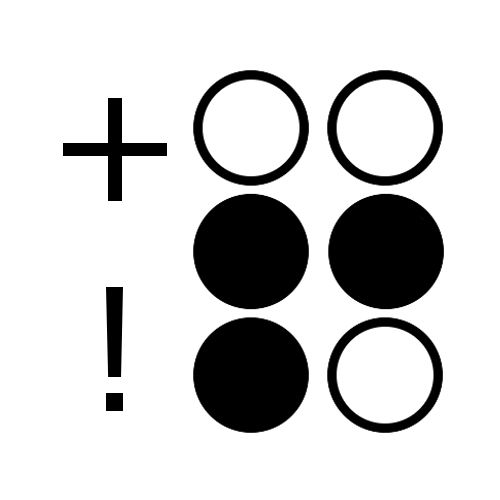
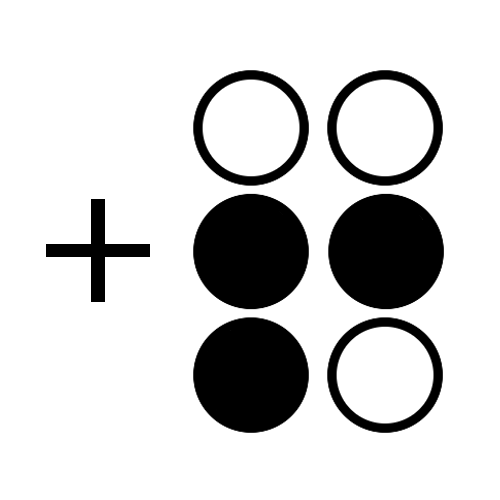
Resolvido alguns problrmas dos sinais braille
Resolvido problrmas dos sinais braille, só falta maiuscula, e um simbolo não identificdo, alterado também o modo de texto e palavra

Changed region(s): [[0.09, 0.18, 0.33, 0.84]]

diff --git a/src/pages/palavrasBraille.ts b/src/pages/palavrasBraille.ts
@@ -1,68 +1,74 @@
 export class palavraBraille { 
   static exemplosImagem = [ 
-      {palavra:'abelha', imagem:'../assets/img/palavras-braille/abelha.png'},
-      {palavra:'bau', imagem:'../assets/img/palavras-braille/bau.png'},
-      {palavra:'cachorro', imagem:'../assets/img/palavras-braille/cachorro.png'},
-      {palavra:'dado', imagem:'../assets/img/palavras-braille/dado.png'},
-      {palavra:'elefante', imagem:'../assets/img/palavras-braille/elefante.png'},
-      {palavra:'folha', imagem:'../assets/img/palavras-braille/folha.png'},
-      {palavra:'gato', imagem:'../assets/img/palavras-braille/gato.png'},
-      {palavra:'helicóptero', imagem:'../assets/img/palavras-braille/helicoptero.png'},
-      {palavra:'ilha', imagem:'../assets/img/palavras-braille/ilha.png'},
-      {palavra:'joaninha', imagem:'../assets/img/palavras-braille/joaninha.png'},
-      {palavra:'kiwi', imagem:'../assets/img/palavras-braille/kiwi.png'},
-      {palavra:'livro', imagem:'../assets/img/palavras-braille/livro.png'},
-      {palavra:'morango', imagem:'../assets/img/palavras-braille/morango.png'},
-      {palavra:'ninho', imagem:'../assets/img/palavras-braille/ninho.png'},
-      {palavra:'olho', imagem:'../assets/img/palavras-braille/olho.png'},
-      {palavra:'pato', imagem:'../assets/img/palavras-braille/pato.png'},
-      {palavra:'queijo', imagem:'../assets/img/palavras-braille/queijo.png'},
-      {palavra:'rato', imagem:'../assets/img/palavras-braille/rato.png'},
-      {palavra:'sapo', imagem:'../assets/img/palavras-braille/sapo.png'},
-      {palavra:'tigre', imagem:'../assets/img/palavras-braille/tigre.png'},
-      {palavra:'uva', imagem:'../assets/img/palavras-braille/uva.png'},
-      {palavra:'vassoura', imagem:'../assets/img/palavras-braille/vassoura.png'},
-      {palavra:'xícara', imagem:'../assets/img/palavras-braille/xicara.png'},
-      {palavra:'youtube', imagem:'../assets/img/palavras-braille/youtube.png'},
-      {palavra:'zebra', imagem:'../assets/img/palavras-braille/zebra.png'},
-      {palavra:'maça', imagem:'../assets/img/palavras-braille/maca.png'},
-      {palavra:'jacaré', imagem:'../assets/img/palavras-braille/jacare.png'},
-      {palavra:'máscara', imagem:'../assets/img/palavras-braille/mascara.png'},
-      {palavra:'Símbolo não utilizado na Grafia Braille para a Língua Portuguesa', imagem:' '},
-      {palavra:'baú', imagem:'../assets/img/palavras-braille/bau.png'},
-      {palavra:'triângulo', imagem:'../assets/img/palavras-braille/triangulo.png'},
-      {palavra:'gênio', imagem:'../assets/img/palavras-braille/genio.png'},
-      {palavra:'Símbolo não utilizado na Grafia Braille para a Língua Portuguesa', imagem:' '},
-      {palavra:'ônibus', imagem:'../assets/img/palavras-braille/onibus.png'},
-      {palavra:'braille@gmail.com', imagem:'../assets/img/sinais-braille/arroba-braille.png'},
-      {palavra:'amanhã  vamos  à  praia.', imagem:'../assets/img/palavras-braille/letra.png'},
-      {palavra:'Símbolo não utilizado na Grafia Braille para a Língua Portuguesa', imagem:' '},
-      {palavra:'Símbolo não utilizado na Grafia Braille para a Língua Portuguesa', imagem:' '}, 
-      {palavra:'caminhões', imagem:'../assets/img/palavras-braille/caminhoes.png'},
-      {palavra:'Letra utilizada geralmente em substantivos próprios.', imagem:' '},
-      {palavra:'escola, trabalho e casa.', imagem:'../assets/img/palavras-braille/virgula.png'},
-      {palavra:'livros; caderno; canetas; lápis.', imagem:'../assets/img/palavras-braille/pontovirgula.png'},                      
-      {palavra:'brincar de: amarelinha e pega-pega.', imagem:'../assets/img/palavras-braille/dois-pontos.png'},
-      {palavra:'11 ÷ 1', imagem:'../assets/img/palavras-braille/divisao.png'},
-      {palavra:'qual seu nome?', imagem:'../assets/img/palavras-braille/interrogacao.png'},
-      {palavra:'eu amo você!', imagem:' '},//caso especial ! e +
-      {palavra:'11 = 11', imagem:' '},
-      {palavra:'**', imagem:' '},//usado pra representar o x
-      {palavra:'*', imagem:' '},
-      {palavra:'º', imagem:' '},
-      {palavra:'ímã', imagem:'../assets/img/palavras-braille/ima.png'},
-      {palavra:'avião', imagem:'../assets/img/palavras-braille/aviao.png'},
-      {palavra:'óculos', imagem:'../assets/img/palavras-braille/oculos.png'},
-      {palavra:'nº', imagem:' '},
-      {palavra:'.', imagem:' '},
-      {palavra:'-', imagem:' '},
-      {palavra:'-', imagem:' '},
-      {palavra:'-', imagem:' '},
-      {palavra:'-', imagem:' '},
-      {palavra:'pipe', imagem:' '},
-      {palavra:'maiuscula', imagem:' '},
-      {palavra:'$', imagem:' '},
-      {palavra:'-', imagem:' '},
+      {palavra:'abelha', imagem:'../assets/img/palavras-braille/abelha.png',texto:''},
+      {palavra:'bau', imagem:'../assets/img/palavras-braille/bau.png',texto:''},
+      {palavra:'cachorro', imagem:'../assets/img/palavras-braille/cachorro.png',texto:''},
+      {palavra:'dado', imagem:'../assets/img/palavras-braille/dado.png',texto:''},
+      {palavra:'elefante', imagem:'../assets/img/palavras-braille/elefante.png',texto:''},
+      {palavra:'folha', imagem:'../assets/img/palavras-braille/folha.png',texto:''},
+      {palavra:'gato', imagem:'../assets/img/palavras-braille/gato.png',texto:''},
+      //////////
+      {palavra:'helicóptero', imagem:'../assets/img/palavras-braille/helicoptero.png',texto:''},
+      {palavra:'ilha', imagem:'../assets/img/palavras-braille/ilha.png',texto:''},
+      {palavra:'joaninha', imagem:'../assets/img/palavras-braille/joaninha.png',texto:''},
+      {palavra:'kiwi', imagem:'../assets/img/palavras-braille/kiwi.png',texto:''},
+      {palavra:'livro', imagem:'../assets/img/palavras-braille/livro.png',texto:''},
+      {palavra:'morango', imagem:'../assets/img/palavras-braille/morango.png',texto:''},
+      {palavra:'ninho', imagem:'../assets/img/palavras-braille/ninho.png',texto:''},
+      ///////////////
+      {palavra:'olho', imagem:'../assets/img/palavras-braille/olho.png',texto:''},
+      {palavra:'pato', imagem:'../assets/img/palavras-braille/pato.png',texto:''},
+      {palavra:'queijo', imagem:'../assets/img/palavras-braille/queijo.png',texto:''},
+      {palavra:'rato', imagem:'../assets/img/palavras-braille/rato.png',texto:''},
+      {palavra:'sapo', imagem:'../assets/img/palavras-braille/sapo.png',texto:''},
+      {palavra:'tigre', imagem:'../assets/img/palavras-braille/tigre.png',texto:''},
+      {palavra:'uva', imagem:'../assets/img/palavras-braille/uva.png',texto:''},
+      ////////////////////
+      {palavra:'vassoura', imagem:'../assets/img/palavras-braille/vassoura.png',texto:''},
+      {palavra:'xícara', imagem:'../assets/img/palavras-braille/xicara.png',texto:''},
+      {palavra:'youtube', imagem:'../assets/img/palavras-braille/youtube.png',texto:''},
+      {palavra:'zebra', imagem:'../assets/img/palavras-braille/zebra.png',texto:''},
+      {palavra:'maça', imagem:'../assets/img/palavras-braille/maca.png',texto:''},
+      {palavra:'jacaré', imagem:'../assets/img/palavras-braille/jacare.png',texto:''},
+      {palavra:'máscara', imagem:'../assets/img/palavras-braille/mascara.png',texto:''},
+      /////////////////////////////////////
+      {palavra:'', imagem:' ',texto:'Símbolo não utilizado na Grafia Braille para a Língua Portuguesa'},
+      {palavra:'baú', imagem:'../assets/img/palavras-braille/bau.png',texto:''},
+      {palavra:'triângulo', imagem:'../assets/img/palavras-braille/triangulo.png',texto:''},
+      {palavra:'gênio', imagem:'../assets/img/palavras-braille/genio.png',texto:''},
+      {palavra:'', imagem:' ',texto:'Símbolo não utilizado na Grafia Braille para a Língua Portuguesa'},
+      {palavra:'ônibus', imagem:'../assets/img/palavras-braille/onibus.png',texto:''},
+      {palavra:'furb@furb.com', imagem:'../assets/img/sinais-braille/arroba-braille.png',texto:''},
+      {palavra:'amanhã  vamos  à  praia.', imagem:'../assets/img/palavras-braille/letra.png',texto:''},
+      {palavra:'', imagem:' ',texto:'Símbolo não utilizado na Grafia Braille para a Língua Portuguesa'},
+      {palavra:'', imagem:' ',texto:'Símbolo não utilizado na Grafia Braille para a Língua Portuguesa'}, 
+      {palavra:'caminhões', imagem:'../assets/img/palavras-braille/caminhoes.png',texto:''},
+      {palavra:'', imagem:' ',texto:'Letra utilizada geralmente em substantivos próprios.'},
+      {palavra:'escola, trabalho e casa.', imagem:'../assets/img/palavras-braille/virgula.png',texto:''},
+      {palavra:'livros; caderno; canetas; lápis.', imagem:'../assets/img/palavras-braille/pontovirgula.png',texto:''},                      
+      {palavra:'brincar de: amarelinha e pega-pega.', imagem:'../assets/img/palavras-braille/dois-pontos.png',texto:''},
+      {palavra:'2 ÷ 1', imagem:'../assets/img/palavras-braille/divisao.png',texto:''},
+      {palavra:'qual seu nome?', imagem:'../assets/img/palavras-braille/interrogacao.png',texto:''},
+      {palavra:'eu amo você!', imagem:'../assets/img/palavras-braille/exclamacao.png',texto:''},
+      {palavra:'34 + 56', imagem:'../assets/img/palavras-braille/adicao.png',texto:''},
+      {palavra:'78 = 78', imagem:'../assets/img/palavras-braille/igual.png',texto:''},
+      {palavra:'9 × 10', imagem:'../assets/img/palavras-braille/multiplicacao.png',texto:''},//usado pra representar o x 158
+      {palavra:'"melhor do mundo"', imagem:'../assets/img/palavras-braille/aspas.png',texto:''},
+      {palavra:'*exemplo', imagem:'../assets/img/palavras-braille/asterisco.png',texto:''},
+      {palavra:'hoje a máxima foi de 35º c.', imagem:'../assets/img/palavras-braille/grau.png',texto:''},
+      {palavra:'ímã', imagem:'../assets/img/palavras-braille/ima.png',texto:''},
+      {palavra:'avião', imagem:'../assets/img/palavras-braille/aviao.png',texto:''},
+      {palavra:'óculos', imagem:'../assets/img/palavras-braille/oculos.png',texto:''},
+      {palavra:'1 2 3 4 5 6 7 8 9 10', imagem:'../assets/img/palavras-braille/sinal-numerico.png',texto:''},
+      {palavra:'hoje terminei de ler um livro.', imagem:'../assets/img/palavras-braille/ponto-final.png',texto:''},
+      {palavra:'minha verdura preferida é couve-flor.', imagem:'../assets/img/palavras-braille/hifen.png',texto:''},
+      {palavra:' ', imagem:' ',texto:'Este sinal só possui valor representativo na Grafia Braille para a Língua Portuguesa combinado com outro sinal. Ex: pi'},
+      {palavra:' ', imagem:' ',texto:'Este sinal só possui valor representativo na Grafia Braille para a Língua Portuguesa combinado com outro sinal. Ex: Alfa'},
+      {palavra:' ', imagem:' ',texto:'Este sinal não possui representação em tinta e é utilizado em questões específicas da Grafia Braille para a Língua Portuguesa.'},
+      {palavra:'google.com', imagem:' ',texto:'Este sinal não possui representação em tinta e é utilizado em questões específicas da Grafia Braille para a Língua Portuguesa. Deve ser escrito imediatamente antes e após endereços de sites e e-mails, sem espaços.'},
+      {palavra:'Braille', imagem:' ',texto:''},
+      {palavra:'r$ 10,00', imagem:'../assets/img/palavras-braille/cifrao.png',texto:''},
+      {palavra:' ', imagem:' ',texto:'Este sinal só possui valor representativo na Grafia Braille para a Língua Portuguesa combinado com outro sinal.'},
     ];
   static letrasSmall = [ 
       {letra:'a', img:'../assets/img/sinais-braille-small/a.png', imgMarcado:'../assets/img/sinais-braille-small/a-d.png'},
@@ -110,26 +116,37 @@ export class palavraBraille {
       {letra:':', img:'../assets/img/sinais-braille-small/doispontos.png', imgMarcado:'../assets/img/sinais-braille-small/doispontos-d.png'},
       {letra:'÷', img:'../assets/img/sinais-braille-small/divisao.png', imgMarcado:'../assets/img/sinais-braille-small/divisao-d.png'},
       {letra:'?', img:'../assets/img/sinais-braille-small/interrogacao.png', imgMarcado:'../assets/img/sinais-braille-small/interrogacao-d.png'},
-      {letra:'!', img:'../assets/img/sinais-braille-small/exclamacao.png', imgMarcado:'../assets/img/sinais-braille-small/exclamacao-d.png'},
+      {letra:'!', img:'../assets/img/sinais-braille-small/exclamacao_adicao.png', imgMarcado:'../assets/img/sinais-braille-small/exclamacao_adicao-d.png'},
+      {letra:'+', img:'../assets/img/sinais-braille-small/exclamacao_adicao.png', imgMarcado:'../assets/img/sinais-braille-small/exclamacao_adicao-d.png'},
       {letra:'=', img:'../assets/img/sinais-braille-small/igual.png', imgMarcado:'../assets/img/sinais-braille-small/igual-d.png'},
-      {letra:'*', img:'../assets/img/sinais-braille-small/multiplicacao.png', imgMarcado:'../assets/img/sinais-braille-small/multiplicacao-d.png'},
+      {letra:'×', img:'../assets/img/sinais-braille-small/multiplicacao_aspa.png', imgMarcado:'../assets/img/sinais-braille-small/multiplicacao_aspa-d.png'},
+      {letra:'"', img:'../assets/img/sinais-braille-small/multiplicacao_aspa.png', imgMarcado:'../assets/img/sinais-braille-small/multiplicacao_aspa-d.png'},
       {letra:'*', img:'../assets/img/sinais-braille-small/asterisco.png', imgMarcado:'../assets/img/sinais-braille-small/asterisco-d.png'},
       {letra:'º', img:'../assets/img/sinais-braille-small/grau.png', imgMarcado:'../assets/img/sinais-braille-small/grau-d.png'},
       {letra:'í', img:'../assets/img/sinais-braille-small/i-agudo.png', imgMarcado:'../assets/img/sinais-braille-small/i-agudo-d.png'},
       {letra:'ã', img:'../assets/img/sinais-braille-small/a-til.png', imgMarcado:'../assets/img/sinais-braille-small/a-til-d.png'},
       {letra:'ó', img:'../assets/img/sinais-braille-small/o-agudo.png', imgMarcado:'../assets/img/sinais-braille-small/o-agudo-d.png'},
-      {letra:'nº', img:'../assets/img/sinais-braille-small/shift-n.png', imgMarcado:'../assets/img/sinais-braille-small/shift-n.png'},
+/*55*/{letra:'nº', img:'../assets/img/sinais-braille-small/shift-n.png', imgMarcado:'../assets/img/sinais-braille-small/shift-n.png'},
       {letra:'.', img:'../assets/img/sinais-braille-small/ponto.png', imgMarcado:'../assets/img/sinais-braille-small/ponto-d.png'},
       {letra:'-', img:'../assets/img/sinais-braille-small/hifen.png', imgMarcado:'../assets/img/sinais-braille-small/hifen-d.png'},
-      {letra:'4', img:'../assets/img/sinais-braille-small/4.png', imgMarcado:'../assets/img/sinais-braille-small/4-d.png'},
-      {letra:'45', img:'../assets/img/sinais-braille-small/45.png', imgMarcado:'../assets/img/sinais-braille-small/45-d.png'},
+      {letra:'SE4', img:'../assets/img/sinais-braille-small/SE4.png', imgMarcado:'../assets/img/sinais-braille-small/SE4-d.png'},
+      {letra:'SE45', img:'../assets/img/sinais-braille-small/SE45.png', imgMarcado:'../assets/img/sinais-braille-small/SE45-d.png'},
       {letra:'pipe', img:'../assets/img/sinais-braille-small/pipe-braille.png', imgMarcado:'../assets/img/sinais-braille-small/pipe-braille.png'},
-      {letra:'5', img:'../assets/img/sinais-braille-small/5-d.png', imgMarcado:'../assets/img/sinais-braille-small/5-d.png'},
-      {letra:'maiusculo', img:'../assets/img/sinais-braille-small/45.png', imgMarcado:'../assets/img/sinais-braille-small/45-d.png'},
-      {letra:'$', img:'../assets/img/sinais-braille-small/45.png', imgMarcado:'../assets/img/sinais-braille-small/45-d.png'},
-      {letra:'ultimo', img:' ', imgMarcado:' '},
+      {letra:'SE5', img:'../assets/img/sinais-braille-small/SE5-d.png', imgMarcado:'../assets/img/sinais-braille-small/SE5-d.png'},
+      {letra:'↑', img:'../assets/img/sinais-braille-small/45.png', imgMarcado:'../assets/img/sinais-braille-small/45-d.png'},
+      {letra:'$', img:'../assets/img/sinais-braille-small/cifrao.png', imgMarcado:'../assets/img/sinais-braille-small/cifrao-d.png'},
+      {letra:'SE6', img:' ', imgMarcado:''},
       {letra:' ', img:'../assets/img/sinais-braille-small/espaco.png', imgMarcado:'../assets/img/sinais-braille-small/espaco.png'},//espaço
-      {letra:'1',img:'../assets/img/sinais-braille-small/a.png', imgMarcado:'../assets/img/sinais-braille-small/a-d.png'}                        
+      {letra:'1',img:'../assets/img/sinais-braille-small/a.png', imgMarcado:'../assets/img/sinais-braille-small/a-d.png'},
+      {letra:'2',img:'../assets/img/sinais-braille-small/b.png', imgMarcado:'../assets/img/sinais-braille-small/b-d.png'},
+      {letra:'3',img:'../assets/img/sinais-braille-small/c.png', imgMarcado:'../assets/img/sinais-braille-small/c-d.png'},
+      {letra:'4',img:'../assets/img/sinais-braille-small/d.png', imgMarcado:'../assets/img/sinais-braille-small/d-d.png'},
+      {letra:'5',img:'../assets/img/sinais-braille-small/e.png', imgMarcado:'../assets/img/sinais-braille-small/e-d.png'},                             
+      {letra:'6',img:'../assets/img/sinais-braille-small/f.png', imgMarcado:'../assets/img/sinais-braille-small/f-d.png'},
+      {letra:'7',img:'../assets/img/sinais-braille-small/g.png', imgMarcado:'../assets/img/sinais-braille-small/g-d.png'},
+      {letra:'8',img:'../assets/img/sinais-braille-small/h.png', imgMarcado:'../assets/img/sinais-braille-small/h-d.png'},
+      {letra:'9',img:'../assets/img/sinais-braille-small/i.png', imgMarcado:'../assets/img/sinais-braille-small/i-d.png'},
+      {letra:'0',img:'../assets/img/sinais-braille-small/j.png', imgMarcado:'../assets/img/sinais-braille-small/j-d.png'},
   ]
   
 }

diff --git a/src/pages/sinais-braille/sinais-braille.ts b/src/pages/sinais-braille/sinais-braille.ts
@@ -81,14 +81,14 @@ export class SinaisBraillePage {
       this.series = [
       {sinal: 'â', imagem: '../../assets/img/sinais-braille/a-circunflexo-braille.png'},
       {sinal: 'ê', imagem: '../../assets/img/sinais-braille/e-circunflexo-braille.png'},
-      {sinal: ' ', imagem: '../../assets/img/sinais-braille/146-braille.png'},
+      {sinal: ' ', imagem: '../../assets/img/sinais-braille/SE146-braille.png'},
       {sinal: 'ô', imagem: '../../assets/img/sinais-braille/o-circunflexo-braille.png'},
       {sinal: '@', imagem: '../../assets/img/sinais-braille/arroba-braille.png'},
       {sinal: 'à', imagem: '../../assets/img/sinais-braille/a-crase-braille.png'},
       {sinal: 'ï', imagem: '../../assets/img/sinais-braille/i-trema-braille.png'},
       {sinal: 'ü', imagem: '../../assets/img/sinais-braille/u-trema-braille.png'},
       {sinal: 'õ', imagem: '../../assets/img/sinais-braille/o-til-braille.png'},
-      {sinal: 'w', imagem: '../../assets/img/sinais-braille/w-braille.png'}];
+      {sinal: 'w', imagem: '../../assets/img/sinais-braille/w-braille.png'}]; 
         this.serieDeSinais = serieAtual;
     }else if(serieAtual == 5){
       this.series= [
@@ -97,9 +97,11 @@ export class SinaisBraillePage {
       {sinal: ':', imagem: '../../assets/img/sinais-braille/dois-pontos-braille.png'},
       {sinal: '÷', imagem: '../../assets/img/sinais-braille/divisao-braille.png'},
       {sinal: '?', imagem: '../../assets/img/sinais-braille/interrogacao-braille.png'},
+      {sinal: '!', imagem: '../../assets/img/sinais-braille/exclamacao-braille.png'},
       {sinal: '+', imagem: '../../assets/img/sinais-braille/adicao-braille.png'},
       {sinal: '=', imagem: '../../assets/img/sinais-braille/igual-braille.png'},
-      {sinal: '*', imagem: '../../assets/img/sinais-braille/multiplicacao-braille.png'},
+      {sinal: '×', imagem: '../../assets/img/sinais-braille/multiplicacao-braille.png'},
+      {sinal: '"', imagem: '../../assets/img/sinais-braille/aspas-braille.png'},
       {sinal: '*', imagem: '../../assets/img/sinais-braille/asterisco-braille.png'},
       {sinal: 'º', imagem: '../../assets/img/sinais-braille/grau-braille.png'}];
         this.serieDeSinais = serieAtual;
@@ -108,19 +110,19 @@ export class SinaisBraillePage {
       {sinal: 'í', imagem: '../../assets/img/sinais-braille/i-agudo-braille.png'},
       {sinal: 'ã', imagem: '../../assets/img/sinais-braille/a-til-braille.png'},
       {sinal: 'ó', imagem: '../../assets/img/sinais-braille/o-agudo-braille.png'},
-      {sinal: 'Nº', imagem:  '../../assets/img/sinais-braille/sinal-numerico-braille.png'},
+      {sinal: 'nº', imagem:  '../../assets/img/sinais-braille/sinal-numerico-braille.png'},
       {sinal: '.', imagem: '../../assets/img/sinais-braille/ponto-final-braille.png'},
       {sinal: '-', imagem: '../../assets/img/sinais-braille/hifen-braille.png'}];
         this.serieDeSinais = serieAtual;
     }else if(serieAtual == 7){
       this.series= [
-      {sinal: '4', imagem:'../../assets/img/sinais-braille/4-braille.png'},
-      {sinal: '45', imagem:'../../assets/img/sinais-braille/45-braille.png'},
+      {sinal: 'SE4', imagem:'../../assets/img/sinais-braille/SE4-braille.png'},
+      {sinal: 'SE45', imagem:'../../assets/img/sinais-braille/SE45-braille.png'},
       {sinal: 'pipe', imagem:'../../assets/img/sinais-braille/pipe-braille.png'},
-      {sinal: '5', imagem:'../../assets/img/sinais-braille/5-braille.png'},
-      {sinal: 'Maiusculo', imagem:'../../assets/img/sinais-braille/sinal-maiusculo-braille.png'},
+      {sinal: 'SE5', imagem:'../../assets/img/sinais-braille/SE5-braille.png'},
+      {sinal: '↑', imagem:'../../assets/img/sinais-braille/sinal-maiusculo-braille.png'},
       {sinal: '$', imagem:'../../assets/img/sinais-braille/cifrao-braille.png'},
-      {sinal: '6', imagem:'../../assets/img/sinais-braille/6-braille.png'}];
+      {sinal: 'SE6', imagem:'../../assets/img/sinais-braille/SE6-braille.png'}];
         this.serieDeSinais = 7;
     }
 

diff --git a/src/pages/exemplo-braille/exemplo-braille.ts b/src/pages/exemplo-braille/exemplo-braille.ts
@@ -12,13 +12,14 @@ export class ExemploBraillePage {
   imagem: String;
   palavra: String;
   letra: string;
+  texto: String;
   simbolos = new Array();
+  simbSpeciais = ['nº', 'pi']
 
   constructor(public navCtrl: NavController, public navParams: NavParams) {
     this.letra = navParams.get('letra');
-
     this.mostrarExemplo(palavraBraille.letrasSmall.findIndex(obj => obj.letra === this.letra));
-    this.simbolosBraille();
+    this.simbolosBraille(this.palavra);
     ;
   }
 
@@ -29,22 +30,83 @@ export class ExemploBraillePage {
   mostrarExemplo(posicao: number) {
     this.palavra = palavraBraille.exemplosImagem[posicao].palavra;
     this.imagem = palavraBraille.exemplosImagem[posicao].imagem;
+    this.texto = palavraBraille.exemplosImagem[posicao].texto;
   }
 
-  simbolosBraille() {
+  simbolosBraille(palavra: String) {
     var i;
     for (i = 0; i < this.palavra.length; i++) {
-      if (this.imagem != ' '){
-        if (this.letra == this.palavra[i]) {
-          this.simbolos.push(palavraBraille.letrasSmall.find(obj => obj.letra === this.palavra[i]).imgMarcado);
+      //Se for numero então jogar o simbolo de numero antes...
+      if (!isNaN(Number(this.palavra[i])) && (this.palavra[i] != ' ')) {
+        if (i == 0) {
+          ///Se a letra for nº então mostrar destacada
+          if (this.letra == 'nº')
+            this.simbolos.push('../assets/img/sinais-braille-small/shift-n-d.png');
+          else
+            this.simbolos.push('../assets/img/sinais-braille-small/shift-n.png');
         } else {
-          this.simbolos.push(palavraBraille.letrasSmall.find(obj => obj.letra === this.palavra[i]).img);
+          if (this.palavra[i - 1] == ' ') {
+            ///Se a letra for nº então mostrar destacada
+            if (this.letra == 'nº')
+              this.simbolos.push('../assets/img/sinais-braille-small/shift-n-d.png');
+            else
+              this.simbolos.push('../assets/img/sinais-braille-small/shift-n.png');
+          }
         }
       }
+      if (this.letra == 'SE4') {
+        this.letra = 'Simbolo especial';
+        this.simbolos.push('../assets/img/sinais-braille-small/SE4.png');
+        this.simbolos.push('../assets/img/sinais-braille-small/p.png');
+      }
+      if (this.letra == 'SE45') {
+        this.letra = 'Simbolo especial';
+        this.simbolos.push('../assets/img/sinais-braille-small/SE45-d.png');
+        this.simbolos.push('../assets/img/sinais-braille-small/a.png');
+      }
+      if (this.letra == 'SE5') {
+        this.letra = 'Simbolo especial';
+        this.simbolos.push('../assets/img/sinais-braille-small/SE5-d.png');
+      }
+      if (this.letra == 'SE6') {
+        this.letra = 'Simbolo especial';
+      }
+      // if (this.imagem != ' ') {
+     /* if (this.isMaiuscula(palavra[i])) {
+        if ((i > 0) && (this.apenasMaiuscula(palavra))) {
+          this.simbolos.push('../../assets/img/sinais-braille/sinal-maiusculo-braille.png');
+          this.simbolos.push('../../assets/img/sinais-braille/sinal-maiusculo-braille.png');
+        }else{
+          this.simbolos.push('../../assets/img/sinais-braille/sinal-maiusculo-braille.png');
+        }
+        palavra.toLowerCase(); 
+      }*/
+      if (this.letra == palavra[i]) {
+        this.simbolos.push(palavraBraille.letrasSmall.find(obj => obj.letra === palavra[i]).imgMarcado);
+      } else {
+        this.simbolos.push(palavraBraille.letrasSmall.find(obj => obj.letra === palavra[i]).img);
+        //   }
+      }
     }
-
-
   }
+
+
+
+  isMaiuscula(letra: String): boolean {
+    return (letra.charCodeAt(0) >= 65 && letra.charCodeAt(0) <= 90)
+  }
+
+  apenasMaiuscula(palavra: String): boolean {
+    let retorno = true;
+    var i;
+    for (i = 0; i < this.palavra.length; i++) {
+      if (palavra.charCodeAt(i) >= 65 && palavra.charCodeAt(i) <= 90) {
+        return false;
+      }
+    }
+    return retorno;
+  }
+
 
 
 

diff --git a/src/pages/exemplo-braille/exemplo-braille.html b/src/pages/exemplo-braille/exemplo-braille.html
@@ -13,9 +13,10 @@
 </ion-header>
 
 <ion-content padding> 
-<div style="text-align: -webkit-center;"><h1 class="textoPalavra" >{{letra}}</h1></div>
-<div style="text-align: center;"><img style="height: 50%; width: 70%;" src={{imagem}}></div>
-<div style="display: flex; align-items: flex-end; justify-content: center; font-size: 90%;"><h1 class="textoPalavra">{{palavra}}</h1></div>
+<div style="text-align: -webkit-center;"><h1 class="texto" >{{letra}}</h1></div>
+<div style="text-align: center;"><img style="max-width: 150; max-height: 150px"  src={{imagem}}></div>
+<div style="display: flex; align-items: flex-end; justify-content: center;  font-weight: 900"><h1 class="texto">{{texto}}</h1></div>
+<div style="display: flex; align-items: flex-end; justify-content: center;" ><h1 class="palavra">{{palavra}}</h1></div>
 <div style="text-align: center;"><img class="simboloBraille" *ngFor="let braille of simbolos" src={{braille}}></div>
 
 </ion-content>

diff --git a/src/pages/exemplo-braille/exemplo-braille.scss b/src/pages/exemplo-braille/exemplo-braille.scss
@@ -7,14 +7,23 @@ page-exemplo-braille {
         display: block;
     
     }
-    .textoPalavra{
+    .texto{
     text-align: center;
     font-family: 'Courier New';
     //font-weight: 900; 
+    font-size: 250%;
+    width: max-content; 
+    display: flex;
+    } 
+
+    .palavra{
+        text-align: center;
+       font-family: 'Courier New';
+    //font-weight: 900; 
     font-size: 400%;
     width: max-content; 
-    display:  table-row;
-    } 
+    display: flex;
+    }
 
     .simboloBraille{
         border-radius: 10px;

diff --git a/src/app/app.module.ts b/src/app/app.module.ts
@@ -64,7 +64,7 @@ const autenticacaoFirebase = {
     LoginPageModule,
     CriarContaPageModule,
     SinaisBraillePageModule,
-    ExemploBraillePageModule
+    ExemploBraillePageModule,
     
   ],
   bootstrap: [IonicApp],
